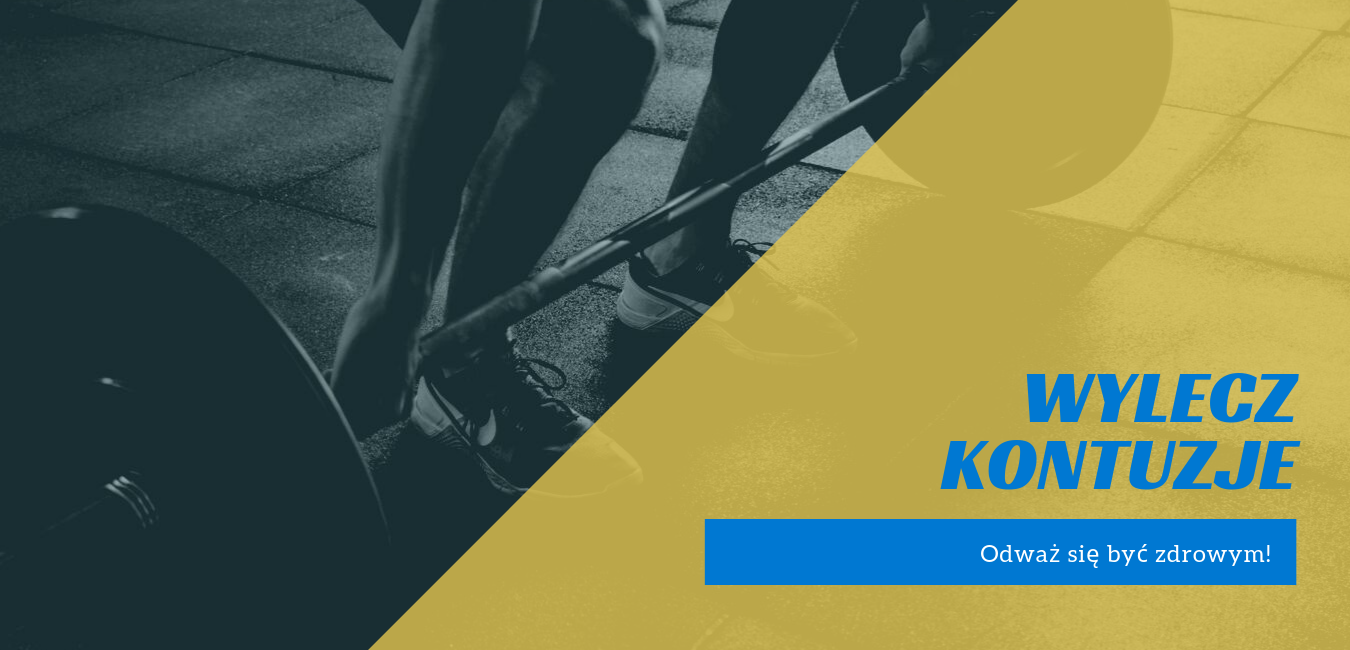
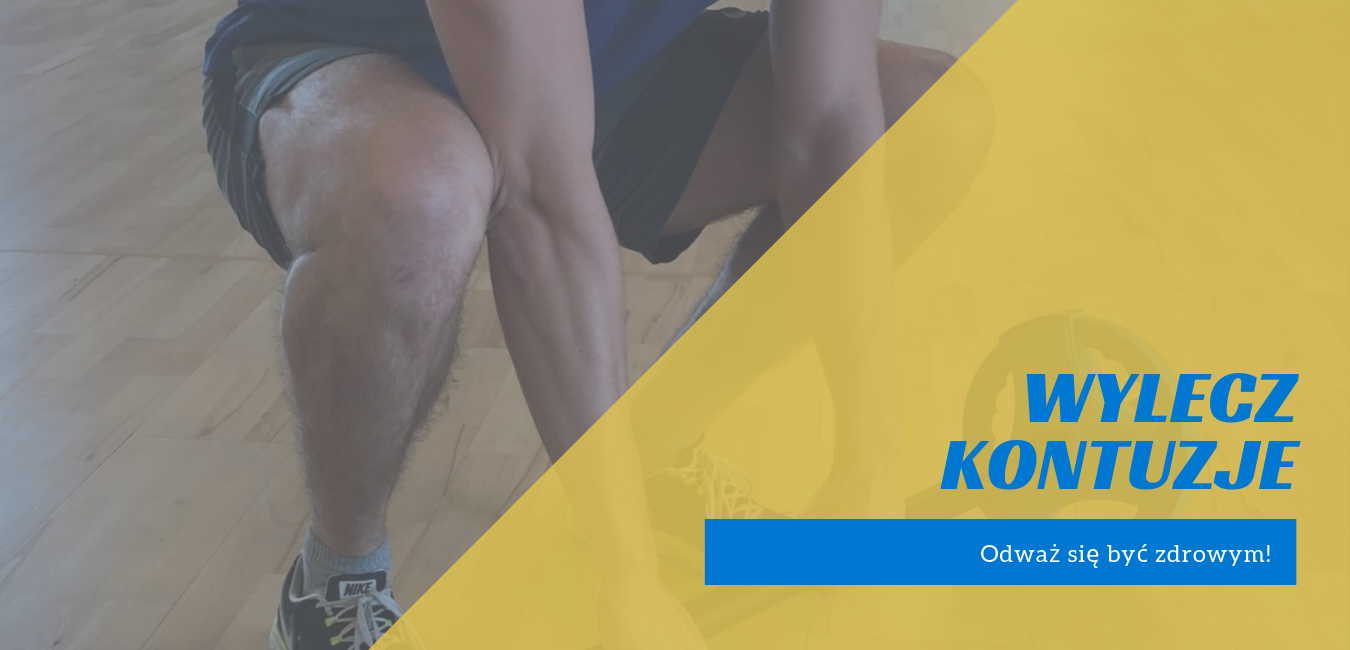
content z kółkami

diff --git a/src/app/registration/registration.component.html b/src/app/registration/registration.component.html
@@ -1,3 +1,90 @@
-<p>
-  registration works!
-</p>
+<div class="container">
+  <div class="row mb-4 mt-4">
+    <div class="col">
+      Pola oznaczone * są obowiązkowe
+    </div>
+  </div>
+
+  <form class="form-registration mb-4 mt-4">
+    <img class="mb-3 mx-auto d-block" src="assets/img/wyleczkontuzje_foto.png" alt="" width="90" height="72">
+    <h1 class="h3 mb-3 font-weight-normal text-center">Rejestracja</h1>
+    <div class="form-group">
+      <label for="remail">E-mail *</label>
+      <input type="remail" class="form-control" id="remail" placeholder="Wpisz swój email" required>
+    </div>
+
+    <div class="form-group">
+      <label for="rpassword">Hasło *</label>
+      <input type="rpassword" class="form-control" id="rpassword" placeholder="Wpisz swoje hasło" required>
+      <small class="form-text text-muted">
+        Hasło musi zawierać conajmniej 8 znaków w tym conajmniej jedną cyfrę
+      </small>
+    </div>
+
+    <div class="form-group">
+      <label for="rpassword2">Powtórz hasło *</label>
+      <input type="rpassword2" class="form-control" id="rpassword2" placeholder="Wpisz ponownie swoje hasło" required>
+    </div>
+
+    <div class="form-row">
+      <div class="form-group col-md-6">
+        <label for="rname">Imię</label>
+        <input type="rname" class="form-control" id="rname" placeholder="Podaj swoje imie">
+      </div>
+      <div class="form-group col-md-6">
+        <label for="rlastname">Nazwisko</label>
+        <input type="rlastname" class="form-control" id="rlastname" placeholder="Podaj swoje nazwisko">
+      </div>
+    </div>
+
+    <div class="form-row">
+      <div class="form-group col-md-8">
+        <label for="rstreet">Ulica, numer bloku</label>
+        <input type="rstreet" class="form-control" id="rstreet" placeholder="Podaj swój adres">
+      </div>
+      <div class="form-group col-md-4">
+        <label for="rhomenumber">Numer mieszkania</label>
+        <input type="rhomenumber" class="form-control" id="rhomenumber" placeholder="Podaj numer mieszkania">
+      </div>
+    </div>
+
+    <div class="form-row">
+      <div class="form-group col-md-5">
+        <label for="rcity">Miasto</label>
+        <input type="rcity" class="form-control" id="rcity" placeholder="Podaj miasto">
+      </div>
+      <div class="form-group col-md-5">
+        <label for="rcounty">Województwo</label>
+        <select id="rcounty" class="form-control">
+          <option selected> Wybierz... </option>
+          <option> Dolnośląskie </option>
+          <option> Kujawsko-pomorskie </option>
+          <option> Lubelskie </option>
+          <option> Lubuskie </option>
+          <option> Łódzkie </option>
+          <option> Małopolskie </option>
+          <option> Mazowieckie </option>
+          <option> Oposkie </option>
+          <option> Podkarpackie </option>
+          <option> Podlaskie </option>
+          <option> Pomorskie </option>
+          <option> Śląskie </option>
+          <option> Świętokrzyskie </option>
+          <option> Warmińsko-mazurskie </option>
+          <option> Wielkopolskie </option>
+          <option> Zachodniopomorskie </option>
+        </select>
+      </div>
+      <div class="form-group col-md-2">
+        <label for="rpostalcode">Kod pocztowy</label>
+        <input type="rpostalcode" class="form-control" id="rpostalcode" placeholder="Kod pocztowy">
+      </div>
+    </div>
+    <div class="checkbox mb-3">
+      <label>
+        <input type="checkbox" value="remember"> Zapamiętaj mnie
+      </label>
+    </div>
+    <button class="btn btn-primary btn-block" type="submit">Zarejestruj się</button>
+  </form>
+</div>

diff --git a/src/app/content/content.component.html b/src/app/content/content.component.html
@@ -1,42 +1,43 @@
-Jakieś tam rzeczy, między innymi manekin - z którego będzie nawigacja do różnych rzeczy
 <div class="container">
-  <div class="row">
-    <div class="col-sm-4">
-      Test bootstrapa
+  <div class="row mt-4 mb-4">
+    <div class="col-lg-4 left-content">
+      <div class="row">
+        <div class="col-4">
+          <img src="assets/img/ankle.jpg" class="circle" alt="ankle">
+        </div>
+        <div class="col-4">
+          <img src="assets/img/elbow.jpg" class="circle" alt="elbow">
+        </div>
+        <div class="col-4">
+          <img src="assets/img/knee.jpg" class="circle" alt="knee">
+        </div>
+      </div>
+      <div class="row mt-4">
+        <div class="col-12">
+          <p> Nie od dzisiaj wiadomo, że sport to zdrowie, aczkolwiek jeżeli nie mamy wiedzy teoretycznej jak prawidłowo trzeba biegać lub w jaki sposób wykonywać ćwiczenia na siłowni, to w bardzo prosty sposób możemy narazić się na kontuzje.
+Wiele czynników wpływa na to, w jakim stopniu jesteśmy podatni na kontuzje:
+          </p>
+          <ul>
+            <li>- zmęczenie,</li>
+            <li>- stres, </li>
+            <li>- złe odżywianie, </li>
+            <li>- brak odpowiedniej rozgrzewki, </li>
+            <li>- słabo rozciągnięte mięśnie, </li>
+            <li>- źle dobrane buty do treningu, </li>
+            <li>- zbyt duże obciążenie podczas treningu. </li>
+          </ul>
+          <p> Aplikacja pierwszej pomocy ma za zadanie pomóc Ci w intuicyjnym zdiagnozowaniu bolącego miejca oraz
+            udzielić Ci informacji jakie należy podjąć dalsze kroki w leczeniu
+          </p>
+        </div>
+      </div>
     </div>
-    <div class="col-sm-4">
-      dzialasz
-    </div>
-    <div class="col-sm-4">
-      mordulo?
+    <div class="col-lg-8 text-center">
+      <p> Kliknij w bolące miejsce, aby uzyskać więcej informacji o kontuzji </p>
+      <img class="mb-3 img-fluid" src="assets/img/human2.PNG" alt="">
     </div>
   </div>
-  <div class="row"> test </div>
-  <div class="row"> test </div>
-  <div class="row"> test </div>
-  <div class="row"> test </div>
-  <div class="row"> test </div>
-  <div class="row"> test </div>
-  <div class="row"> test </div>
-  <div class="row"> test </div>
-  <div class="row"> test </div>
-  <div class="row"> test </div>
-  <div class="row"> test </div>
-  <div class="row"> test </div>
-  <div class="row"> test </div>
-  <div class="row"> test </div>
-  <div class="row"> test </div>
-  <div class="row"> test </div>
-  <div class="row"> test </div>
-  <div class="row"> test </div>
-  <div class="row"> test </div>
-  <div class="row"> test </div>
-  <div class="row"> test </div>
-  <div class="row"> test </div>
-  <div class="row"> test </div>
-  <div class="row"> test </div>
-  <div class="row"> test </div>
-  <div class="row"> test </div>
+
 </div>
 <nav>
   <a routerLink="/kolano">Kolano</a>

diff --git a/src/app/login/login.component.html b/src/app/login/login.component.html
@@ -1,14 +1,14 @@
-  <form class="form-login text-center">
+  <form class="form-login text-center mt-4 mb-4">
      <img class="mb-3" src="assets/img/wyleczkontuzje_foto.png" alt="" width="90" height="72">
      <h1 class="h3 mb-3 font-weight-normal">Logowanie</h1>
-     <label for="inputEmail" class="sr-only">e-mail</label>
-     <input type="email" id="inputEmail" class="form-control mb-3" placeholder="e-mail" required autofocus>
-     <label for="inputPassword" class="sr-only">hasło</label>
-     <input type="password" id="inputPassword" class="form-control mb-3" placeholder="hasło" required>
+     <label for="iEmail" class="sr-only">e-mail</label>
+     <input type="email" id="iEmail" class="form-control mb-3" placeholder="e-mail" required autofocus>
+     <label for="iPassword" class="sr-only">hasło</label>
+     <input type="password" id="iPassword" class="form-control mb-3" placeholder="hasło" required>
      <div class="checkbox mb-3">
        <label>
          <input type="checkbox" value="remember"> Zapamiętaj mnie
        </label>
      </div>
-     <button class="btn btn-lg btn-primary btn-block" type="submit">Zaloguj się</button>
+     <button class="btn btn-primary btn-block" type="submit">Zaloguj się</button>
    </form>

diff --git a/src/app/app.component.ts b/src/app/app.component.ts
@@ -1,10 +1,13 @@
 import { Component } from '@angular/core';
-
+import { faShopping } from '@fortawesome/free-solid-svg-icons';
+import { f167 } from '@fortawesome/free-solid-svg-icons';
 @Component({
   selector: 'app-root',
   templateUrl: './app.component.html',
   styleUrls: ['./app.component.css']
 })
 export class AppComponent {
+  faShopping = faShopping;
+  faYoutube = f167;
   title = 'Aplikacja pierwszej pomocy dla osób kontuzjowanych';
 }

diff --git a/src/app/app.component.html b/src/app/app.component.html
@@ -1,4 +1,10 @@
 <app-menu></app-menu>
 <h1> {{title}} </h1>
+<fa-icon [icon]="faYoutube" class="d-none d-lg-block menu-icon"></fa-icon>
+<i class="fab fa-youtube"></i>
+<div class="right-menu">
+  <fa-icon [icon]="faShopping" class="d-none d-lg-block menu-icon"></fa-icon>
+  ShopCart
+</div>
 <router-outlet></router-outlet>
 <app-footer></app-footer>

diff --git a/src/app/content/content.component.css b/src/app/content/content.component.css
@@ -1,0 +1,20 @@
+
+p{
+  font-family: "Helvetica Neue";
+  font-size: 4;
+}
+
+.circle{
+  height: 5em;
+  width: 5em;
+  border-radius: 50%;
+  border: 2px solid #004579;
+  text-align:center;
+  line-height:5em;
+}
+
+li{
+  list-style: none;
+  font-family: "Helvetica Neue";
+  font-size: 4;
+}

diff --git a/src/app/menu/menu.component.css b/src/app/menu/menu.component.css
@@ -5,3 +5,9 @@
   font-size: 3em;
   color: #0078d2;
 }
+
+.navbar{
+  -webkit-box-shadow: 0 8px 6px -6px #999;
+  -moz-box-shadow: 0 8px 6px -6px #999;
+  box-shadow: 0 8px 6px -6px #999;
+}

diff --git a/src/app/app.component.css b/src/app/app.component.css
@@ -1,0 +1,9 @@
+.right-menu{
+  background-color: #f9f8fa;
+  border-radius: 20px;
+  position: fixed;
+  right: 10px;
+  top: 10em;
+  height: 8em;
+  width: 4em;
+}

diff --git a/src/app/registration/registration.component.css b/src/app/registration/registration.component.css
@@ -1,0 +1,4 @@
+.form-registration{
+  max-width: 800px;
+  margin: 0 auto;
+}
